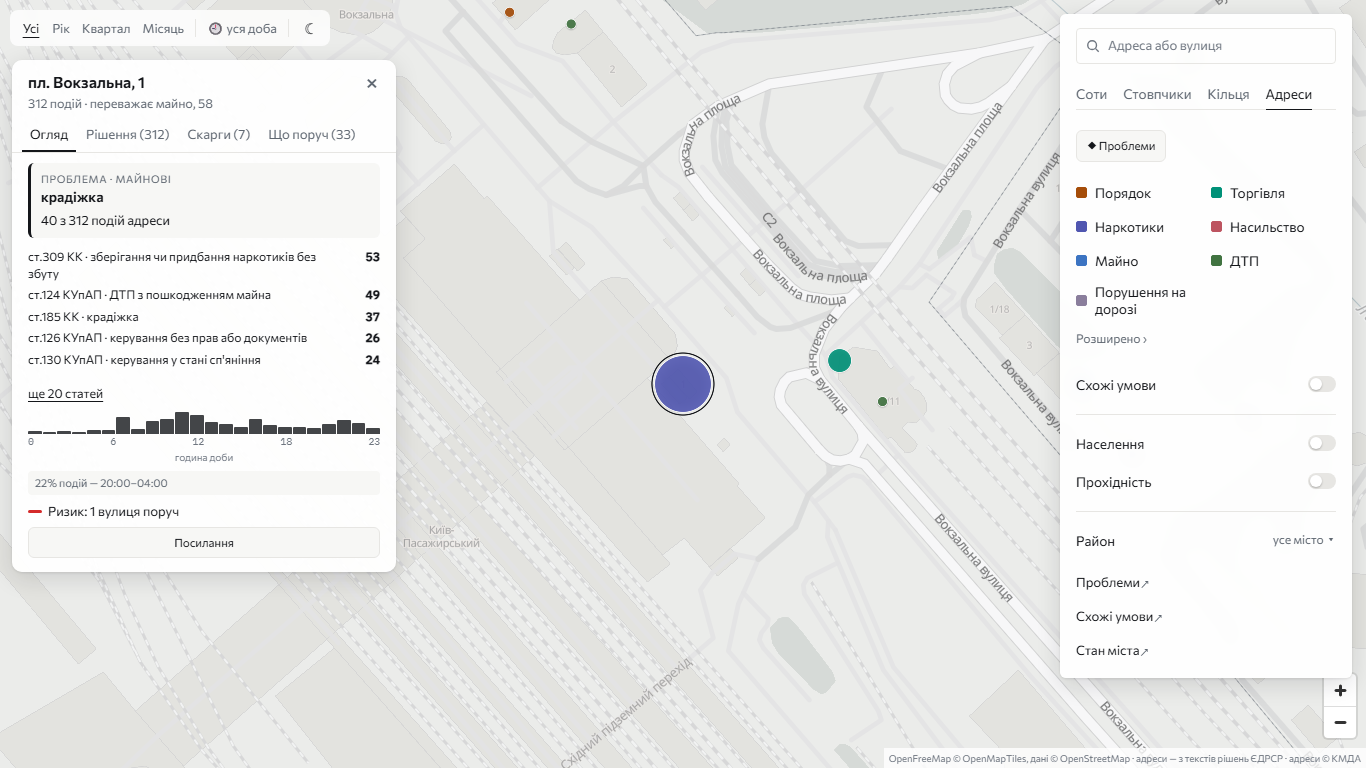
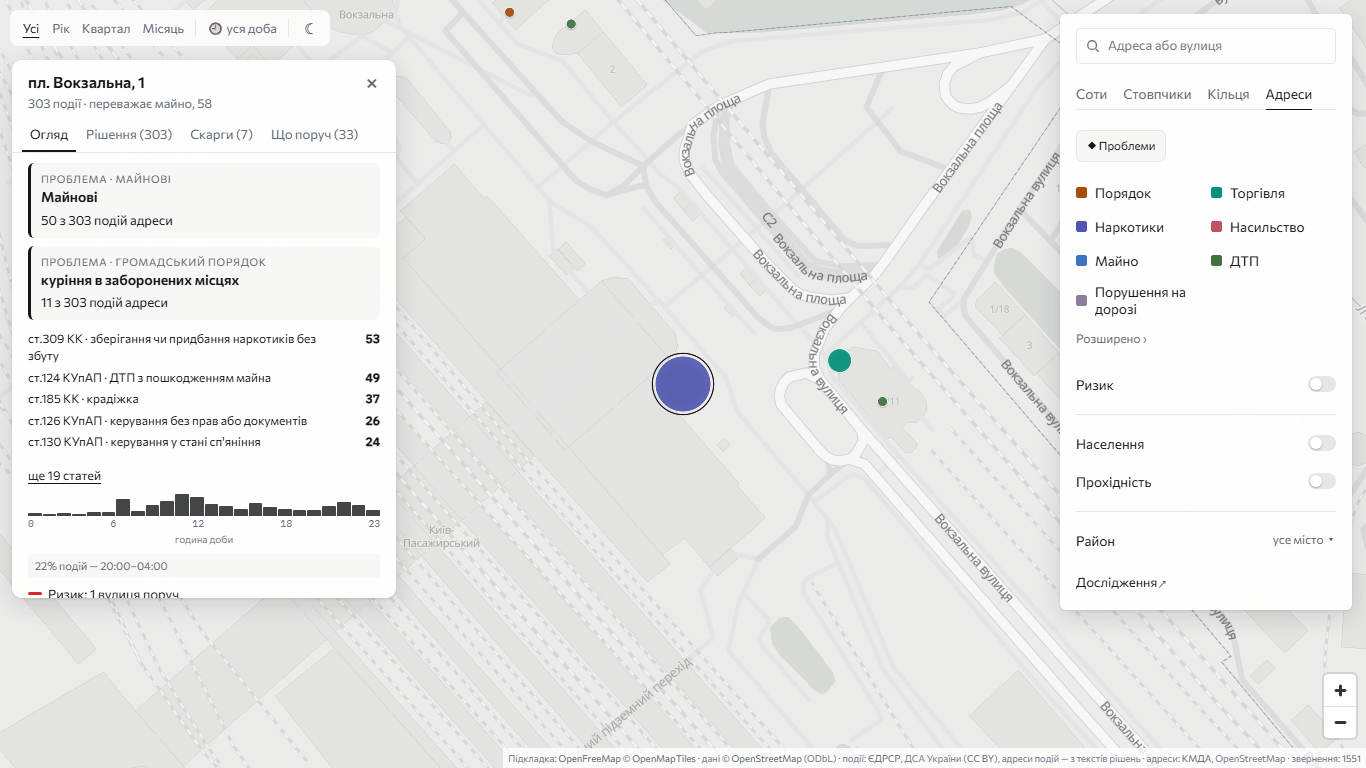
Г, перший коміт: ст.184 КУпАП поза видами, дорожні ділянки 12/5, мітки ДТП, речення про адреси
Правки центрального чату (VIDPOVID-39, 22.10, четверта). Коди 41256 і 6076 були підписані як ст.126-1 КК «домашнє насильство», а це ст.184 — стаття без місця (36.38, S-Д.2): 1 254 події знято з карти, проблем 79 -> 68 (зникли 11 «домашнє насильство» біля шкіл). Поріг 36.36 потрапив у Р4 — дорожні ділянки знову 12/5 (36.36.3, S-ПР.5), 334; сито кандидатів лишається 5/3 для всіх. У кожної ДТП в kandydaty.json.gz — поле mitky з 10 виразів чату, check_build це перевіряє. Речення «адреса — місце, де подію оформлено» суперечило S-А.1 — замінено. Специфікація до 50 КБ (36.38.2), стиснуті в В правила повернуто до повних формулювань. Знімки ПК перезнято після В.4.

diff --git a/src/problems.py b/src/problems.py
@@ -43,6 +43,10 @@ R_MISCE = 30          # м: адреси з тим самим механізмо
 # 80%); колишні 12/5 давали 67–90% і пропускали місця з одним сценарієм.
 MIN_POD = 5           # Р3: окремих подій за останні KV_VIKNO кварталів
 MIN_KV = 3            # Р3: різних кварталів з останніх 8
+# Дорожні ділянки (Р4, ДТП з майновою шкодою) лишаються на 12/5 (36.36.3):
+# змагання Е7 міряло місця й лінії, а не ДТП — на ділянках 5/3 не перевірено.
+# Кандидати для аналізу фабул беруть 5/3 для всіх, і ДТП теж.
+DOR_POD, DOR_KV = 12, 5
 # Ст.51 КУпАП (дрібне викрадення) — проактивна (36.36): число протоколів міряє
 # охорону магазину. Місця лише зі ст.51 мають наступного року кримінальних
 # крадіжок ×1,1 від звичайного, з ≥3 ст.185 — ×9,9 (Е7).
@@ -452,9 +456,10 @@ def mozhe_fiksuvaty(sim):
     return M.simtheme(sim) not in NE_FIKSUIE and sim not in NE_FIKSUIE_SIM
 
 
-def vorota(evs, S, kind_q, sim=''):
+def vorota(evs, S, kind_q, sim='', porih=(MIN_POD, MIN_KV)):
     """Ворота Р1–Р3 для набору подій однієї пари. Повертає (прапорці,
-    статус, підсумки). Порядок воріт — як у воронці."""
+    статус, підсумки). Порядок воріт — як у воронці. porih — (подій,
+    кварталів) Р3 свого класу; sito в підсумках — 5/3 для кандидатів."""
     b = [e for e in evs if e['klas'] == 'B']
     g = dict(R1=bool(b))
     if not b: return g, 'не перевірена адреса', {}
@@ -469,8 +474,8 @@ def vorota(evs, S, kind_q, sim=''):
     u8 = [e for e in u if kv(e['date']) > kind_q - KV_VIKNO]
     qs = {kv(e['date']) for e in u8}
     last = max(e['date'] for e in u)
-    g['R3_podii'] = len(u8) >= MIN_POD
-    g['R3_kvartaly'] = len(qs) >= MIN_KV
+    g['R3_podii'] = len(u8) >= porih[0]
+    g['R3_kvartaly'] = len(qs) >= porih[1]
     g['R3_svizhist'] = (dt.date.fromisoformat(S) - dt.date.fromisoformat(last)).days <= SVIZHIST_DNIV
     r3 = g['R3_podii'] and g['R3_svizhist'] and g['R3_kvartaly']
     # скупчення, де більшість — ст.51, не стає «фіксує поліція» (36.36), як НАР і ДОР
@@ -488,7 +493,8 @@ def vorota(evs, S, kind_q, sim=''):
                        otsinnykh=sum(e['otsinna'] for e in u),
                        # Шкода — поле, не сортує (Р6): частка кримінальних
                        # проступків, поки ваги шкоди не перевірені юристом
-                       shkoda_kk=round(kk / len(u), 2), evs=u)
+                       shkoda_kk=round(kk / len(u), 2), evs=u,
+                       sito=len(u8) >= MIN_POD and len(qs) >= MIN_KV)
 
 
 PROBLEMA = ('хронічна', 'фіксує поліція')       # статуси, що йдуть у перелік
@@ -532,25 +538,26 @@ def zlyty_adresy(cnt, pts=None):
 # читає лише цей файл. Межа — 20 МБ (check_build).
 KANDYDATY = os.path.join(DATA, 'kandydaty.json.gz')
 FAB_KANDYDATA = 600
-# Мітки маневру ДТП — щоб аналіз бачив сценарій («лівий поворот на Сумську»)
-MANEVR = [('лівий поворот', r'лів\w*\s+поворот|поверта\w*\s+ліворуч|поворот\w*\s+ліворуч'),
-          ('розворот', r'розворот|розверта'), ('задній хід', r'задн\w+\s+ход|заднім\s+ходом'),
-          ('перестроювання', r'перестро'), ('виїзд з прилеглої', r'прилегл\w+\s+територ'),
-          ('дистанція', r'дистанці'), ('другорядна', r'другорядн'), ('кругов', r'кругов|кільц\w+\s+рух'),
-          ('пішохід', r'пішохід|пішоход'), ('паркування', r'паркув|стоянк|припаркован')]
-MANEVR = [(m, re.compile(rx, re.I)) for m, rx in MANEVR]
+# Мітки ДТП — щоб аналіз бачив сценарій («лівий поворот на Сумську»).
+# Вирази — дослівно з VIDPOVID-39 від 22.10 (36.37): аналіз звіряє мітки з ними.
+MITKY = [('лівий поворот', r'поворот\w* ліворуч|лівий поворот'), ('розворот', r'розворот'),
+         ('задній хід', r'задн\w+ ход'), ('перестроювання', r'перестро|перелаштув|зміні смуги|зміні напрямку'),
+         ('виїзд з прилеглої', r'прилегл|з двору|виїжджа'), ('дистанція', r'дистанц|попереду'),
+         ('другорядна', r'другорядн|не надав\w* (перевагу|дорогу)'), ('круговий рух', r'кругов'),
+         ('пішохід', r'пішохід|пішоход'), ('паркування', r'паркув|стоянц|парковц|припаркован')]
+MITKY = [(m, re.compile(rx, re.I)) for m, rx in MITKY]
 
 
 def kandydaty(zapysy, ev, log=print):
     """data/kandydaty.json.gz: кожна пара сита (місце × механізм, разом з
-    ДОР_ДТП), що проходить Р3 (≥MIN_POD подій у ≥MIN_KV кварталах), — з
-    подіями й показом фабул (36.19: без заглушок, до FAB_KANDYDATA знаків)."""
+    ДОР_ДТП), що проходить сито 5/3 (≥MIN_POD подій у ≥MIN_KV кварталах,
+    і ДТП теж — 36.36.3), — з подіями й показом фабул (36.19: без заглушок,
+    до FAB_KANDYDATA знаків)."""
     import step1c_teksty as T1
     po_doc = {e['doc']: e for e in ev}
     out = []
     for r in zapysy:
-        g = r.get('vorota') or {}
-        if r.get('riven') not in ('точка', 'дорожні ділянки') or not (g.get('R3_podii') and g.get('R3_kvartaly')): continue
+        if r.get('riven') not in ('точка', 'дорожні ділянки') or not r.get('sito'): continue
         pod = []
         for d in r.get('docs', []):
             e = po_doc.get(d)
@@ -558,7 +565,7 @@ def kandydaty(zapysy, ev, log=print):
             f = T1.pokaz(e['fab0'], T1.kodeks(e['cat']))[:FAB_KANDYDATA]
             x = dict(doc=d, date=e['date'], time=e['time'], cat=e['cat'], adr=e['adr'], fab=f)
             if e['sim'] == 'ДОР_ДТП' or M.simtheme(e['sim']) == 'ДТП':
-                x['manevr'] = [m for m, rx in MANEVR if rx.search(e['fab0'])]
+                x['mitky'] = [m for m, rx in MITKY if rx.search(e['fab0'])]
             pod.append(x)
         out.append(dict(adresy=r.get('adresy', []), lat=r['p'][0], lon=r['p'][1], sim=r['sim'], vyd=r['vyd'],
                         status=r.get('status'), podii=pod))
@@ -977,14 +984,15 @@ def run(V=None, log=print, FACT=None):
     funnel = {'точка': collections.Counter(), 'лінія': collections.Counter(),
               'дорожні ділянки': collections.Counter()}
     zapysy, formue, is_problem_ev = [], [], set()
-    GATES = (('R1', 'Р1 клас B'), ('R2', 'Р2 заявні ≥50%'), ('R3_podii', f'Р3 ≥{MIN_POD} подій за 2 роки'),
-             ('R3_svizhist', 'Р3 остання ≤12 міс.'), ('R3_kvartaly', f'Р3 ≥{MIN_KV} кварталів з 8'))
+    GATES = lambda n, k: (('R1', 'Р1 клас B'), ('R2', 'Р2 заявні ≥50%'), ('R3_podii', f'Р3 ≥{n} подій за 2 роки'),
+                          ('R3_svizhist', 'Р3 остання ≤12 міс.'), ('R3_kvartaly', f'Р3 ≥{k} кварталів з 8'))
     POLICE = 'пройшли Р3 як проактивні: «фіксує поліція»'
 
     def zbir(sim, evs, riven, pts, rep):
         """запис місця × механізму з підсумками воріт — без воронки"""
         th = M.simtheme(sim)
-        g, st, s = vorota(evs, S, kind_q, sim)
+        g, st, s = vorota(evs, S, kind_q, sim,
+                          (DOR_POD, DOR_KV) if riven == 'дорожні ділянки' else (MIN_POD, MIN_KV))
         u = s.pop('evs', [])
         ap = {}
         for e in u: ap.setdefault(e['adr'], tuple(e['p']))
@@ -1023,7 +1031,7 @@ def run(V=None, log=print, FACT=None):
         rec, u = zbir(sim, evs, track, pts, rep)
         g, st = rec['vorota'], rec['status']
         f = funnel[track]; f['пар на вході'] += 1
-        for gk, lab in GATES:
+        for gk, lab in GATES(*((DOR_POD, DOR_KV) if dor else (MIN_POD, MIN_KV))):
             if gk not in g: break
             if not g[gk]:
                 f['відпало: ' + lab] += 1; break

diff --git a/src/step6_zvity.py b/src/step6_zvity.py
@@ -119,8 +119,7 @@ def page(fn, title, lead, body, script=''):
             f'<header><div class="nav"><a href="index.html">← карта</a>{nav}</div>'
             f'<h1>{esc(title)}</h1><div class="sub">{lead}</div></header>{body}'
             f'<p class="muted" style="margin-top:40px">Складено {dt.date.today().strftime("%d.%m.%Y")} з тих самих даних, '
-            'що й карта. Адреси — з текстів рішень ЄДРСР: це місце, де подію оформлено, і воно не '
-            'завжди збігається з місцем, де все сталося.</p>'
+            'що й карта. Адреси подій — з текстів рішень; текст суду не завжди точний.</p>'
             # атрибуція внизу кожної сторінки — той самий рядок, що на карті (S-З.7)
             f'<p class="muted" style="font-size:12px">{ATR.HTML}</p></div>'
             f'{script}</body></html>')
@@ -322,7 +321,7 @@ def zaklady(D, rng):
     b = ['<h2 id="zaklady">Заклади, біля яких подій найбільше</h2><p>Для кожного типу закладів — скільки подій '
          '(без дорожнього руху) в 50 м від кожного і яку частку всіх таких подій дають верхні 10% закладів. '
          'Поруч — скільки дали б верхні 10%, якби ті самі події розкидати між закладами навмання. Це '
-         'близькість, а не пояснення: адреса в рішенні — місце, де подію оформлено.</p>'
+         'близькість, а не пояснення. Адреси подій — з текстів рішень; текст суду не завжди точний.</p>'
          '<div class="tw"><table><tr><th>Тип</th><th class="n">Закладів з подіями</th><th class="n">Верхні 10% дають</th>'
          '<th class="n">Навмання</th><th>Найбільше подій поруч</th></tr>']
     for k, c in Z.items():
@@ -782,7 +781,8 @@ def metodyka(D):
              'ст. 51 — ні.</li>'
              f'<li><b>Р3.</b> ≥ {PRB_.MIN_POD} окремих подій за останні 2 роки (та сама дата на тій самій адресі — одна), у ≥ {PRB_.MIN_KV} '
              'різних кварталах з 8, остання — не старша за 12 місяців. Дати події немає — дата рішення мінус 50 днів.</li>'
-             '<li><b>Р4.</b> ДТП без потерпілих — окремим класом «дорожні ділянки», не в переліку.</li>'
+             f'<li><b>Р4.</b> ДТП без потерпілих — окремим класом «дорожні ділянки», не в переліку; поріг Р3 для них — '
+             f'≥ {PRB_.DOR_POD} подій у ≥ {PRB_.DOR_KV} кварталах.</li>'
              '<li><b>Р5.</b> Тип за Еком і Кларком — з таблиці механізмів (NAPRYAM-PROBLEMY, додаток Б). Тип місця, '
              'хто ним керує, посібник POP Center і техніки — лише якщо об\'єкт цього типу за OSM стоїть у 50 м від '
              'більшості подій; інакше «невизначено» і без посібника. На карті їх немає — лише тут.</li>'
@@ -858,7 +858,7 @@ def metodyka(D):
                  '<tr>' + ''.join(f'<td>{5 * gi + r + 1}. {esc(TEKHNIKY[gi][1][r])}</td>' for gi in range(5)) + '</tr>'
                  for r in range(5)) + '</table></div>')
     b.append('<h2 id="mezha">Межа</h2><p>Модель і звіти міряють, що поруч і як часто, а не через що сталася подія. '
-             'Гіпотезу, чому саме тут, висуває людина на місці. Адреса — місце, де подію оформлено.</p>')
+             'Гіпотезу, чому саме тут, висуває людина на місці. Адреси подій — з текстів рішень; текст суду не завжди точний.</p>')
     return b
 
 

diff --git a/src/check_build.py b/src/check_build.py
@@ -73,7 +73,7 @@ TESTY = {
     'chyslo_problem': '4е. Число проблем: карта = «Проблеми» = problems_report',
     'uzhodzhenist': '7. Узгодженість у браузері: підказка = картка = сума видів',
     'telefon': '7. Телефон 375×812: точка й +/− над шторкою, одна висота, 14 px, 44 px',
-    'kandydaty': '4ж. Кандидати для аналізу фабул: файл є, непорожній, ≤20 МБ',
+    'kandydaty': '4ж. Кандидати для аналізу фабул: файл є, непорожній, ≤20 МБ, ДТП з полем mitky',
     'atrybutsiia': '4з. Атрибуція: п\'ять джерел і умови OSM на карті, у звітах і файлах адрес',
     'poshuk_143': '8. Пошук: 143 запити Е12б — першим ≥131',
     'poshuk_opysky': '8. Пошук: описки — у перших п\'яти ≥12 з 13',
@@ -153,10 +153,11 @@ def spec_testy():
         return [f'немає {os.path.basename(SPEC)}'], {}
     import collections
     st = collections.Counter(); bad = []
-    # ≤ 40 КБ (36.31.1): файл читається цілком на початку кожної роботи
+    # ≤ 50 КБ (36.31.1, 36.38.2): файл читається цілком на початку кожної
+    # роботи; 40 змушувало стискати правила до неясності
     kb = os.path.getsize(SPEC) / 1024
     st['КБ'] = round(kb, 1)
-    if kb > 40: bad.append(f'{os.path.basename(SPEC)} — {kb:.1f} КБ, межа 40')
+    if kb > 50: bad.append(f'{os.path.basename(SPEC)} — {kb:.1f} КБ, межа 50')
     for ln in open(SPEC, encoding='utf-8'):
         m = re.match(r'^\| (S-[^\s|]+) \|(.*)\|\s*$', ln)
         if not m: continue
@@ -481,15 +482,19 @@ def main(save=False):
         if na_karti != ch or (os.path.exists(pp_) and not v_zvity):
             print('   ПОМИЛКА число проблем розходиться між картою, «Проблемами» й звітом')
             return 1
-    print('4ж. Кандидати для аналізу фабул (36.37): data/kandydaty.json.gz є, непорожній, ≤20 МБ')
+    print('4ж. Кандидати для аналізу фабул (36.37): data/kandydaty.json.gz є, непорожній, ≤20 МБ, ДТП з mitky')
     kp_ = os.path.join(DATA, 'kandydaty.json.gz')
     if not os.path.exists(kp_):
         print('   ПОМИЛКА data/kandydaty.json.gz немає — аналізу в хмарі нічого читати'); return 1
     mb_ = os.path.getsize(kp_) / 1048576
-    n_ = len(json.load(gzip.open(kp_, 'rt', encoding='utf-8')))
-    print(f'   {n_:,} пар, {mb_:.1f} МБ')
-    if not n_ or mb_ > 20:
-        print('   ПОМИЛКА файл кандидатів порожній чи понад 20 МБ'); return 1
+    kd_ = json.load(gzip.open(kp_, 'rt', encoding='utf-8'))
+    n_ = len(kd_)
+    # аналіз фабул групує ДТП за полем mitky (S-ПР.15) — без нього сценарію не видно
+    dtp_ = [x for k in kd_ if k['sim'] == 'ДОР_ДТП' for x in k['podii']]
+    bez_m = sum('mitky' not in x for x in dtp_)
+    print(f'   {n_:,} пар, {mb_:.1f} МБ; ДТП {len(dtp_):,}, з мітками {sum(bool(x.get("mitky")) for x in dtp_):,}')
+    if not n_ or mb_ > 20 or bez_m or not dtp_:
+        print(f'   ПОМИЛКА файл кандидатів порожній, понад 20 МБ чи ДТП без поля mitky ({bez_m})'); return 1
     print('4з. Атрибуція (S-К.20, S-З.7, S-Б.7): п\'ять джерел і умови OSM')
     import atrybutsiia as ATR_
     bez = []

diff --git a/SPECYFIKATSIYA.md b/SPECYFIKATSIYA.md
@@ -14,7 +14,7 @@
 | № | Правило | Джерело | Перевірка |
 |---|---|---|---|
 | S-Д.1 | Події — з ЄДРСР (дамп data.gov.ua), суди Києва; на карті — з датою події від 01.01.2023 (`MIN_EVENT_DATE`). 2023 неповний (лише через рішення 2024+): позначки немає, у «Стані міста» — рядок «Що треба знати». | 22, 36.32.1 | очима: рядок «дата до 2023» у воронці Е25 |
-| S-Д.2 | Береться кожна стаття, де подія стається в конкретному місці; статті без місця (військова служба, держзрада, колабораціонізм, корупція, службові, митниця, податки, документи) — ні. | 34.2, 35.8 | очима: перелік статей з числами у звіті |
+| S-Д.2 | Береться кожна стаття, де подія стається в конкретному місці; статті без місця (військова служба, держзрада, колабораціонізм, корупція, службові, митниця, податки, документи) — ні. Ст.184 КУпАП (коди 41256, 6076; невиконання батьками обов'язків) — стаття без місця: «поза видами», не на карті, не в розрахунках, не «домашнє насильство». | 34.2, 35.8, 36.38 | очима: перелік статей з числами у звіті |
 | S-Д.3 | Сім видів: Громадський порядок, Алкоголь і торгівля, Наркотики, Насильство, Майнові, ДТП, Порушення на дорозі. Домашнє насильство — у Насильстві. | 34.3, 35.8 | очима: легенда й `labels.ORDER` |
 | S-Д.4 | Механізми — заявні з ≥250 подіями у вікні навчання: хуліганство, залишення місця ДТП, крадіжка, ДТП з майном «на дорозі» і «на парковці чи у дворі». | 32 | очима: `engine_report.json` |
 | S-Д.5 | Адресна база — OSM (знімок з Geofabrik у гілці `osm`) і геокодер КМДА; джерело кожної точки — у даних (`geo.source`). | 16, Порядок, 35.9 | очима: `geo.source` у базі |
@@ -30,7 +30,7 @@
 | S-П.1 | Подія — епізод, установлений судом: вирок або постанова по суті; форма — з дампу ЄДРСР. Ухвали й справи, закриті за строками, — не події. | 19, 24 | очима: воронка Е25, крок «форма» |
 | S-П.2 | Одна справа — одна подія на вид (злиття за номером справи). | 19 | очима: воронка Е25, «другий документ справи» |
 | S-П.3 | Скасоване рішення прибирає подію з усіх підрахунків, коли скасування знайдено. | 24 | очима |
-| S-П.4 | Процесуальна постанова (немає часу й опису події; ознака ухвали — описка, розстрочка, об'єднання справ, речові докази — до «ПОСТАНОВИВ», не в згадці «Постановою …»; дата не важить) — не подія: ні на карту, ні в знаменник. | 36.19.7, 36.33.2 | очима: 20 + 20 з датою (ZVIT-39) |
+| S-П.4 | Процесуальна постанова (немає часу й опису події, є ознака ухвали — описка, розстрочка штрафу, об'єднання справ, речові докази — до «ПОСТАНОВИВ» і не в реченні-згадці «Постановою …»; дата не важить) — не подія: ні на карту, ні в знаменник. Позначка проходу v4d «процесуальна». | 36.19.7, 36.33.2 | очима: 20 + 20 з датою (ZVIT-39) |
 | S-П.5 | Чи подія йде в розрахунки — за реченням, з якого взято адресу; карта, проблеми й ризик рахують один набір (36.14); поза ним — лише адреси ролі («проживає», «доставлений», «складено протокол»). ⏳ | 36.14.1 | очима: воронка Е25, «набір 36.14» |
 | S-П.6 | Дата події — з тексту рішення (описки в даті нормалізуються); немає — дата рішення мінус 50 днів, у картці — дата рішення з позначкою «рішення». | 17, 21, METODYKA (медіана затримки 46 днів, «Стан міста»), VIDPOVID-38 п. 4 | ⏳test:bez_fabuly (подій з адресою без фабули ≤0,5%) |
 | S-П.7 | Фабула (правило v4) — від речення з датою, часом і місцем події; укази про воєнний стан і речення про судимість відкидаються; межа речення не стоїть на скороченнях («д.н.з.», «грн.»). | 21, 35.7 | очима: 20 фабул |
@@ -46,8 +46,8 @@
 | S-А.2 | Точне місце — будинок з адресної бази, перехрестя двох названих вулиць (обидві в довіднику, перетин у 30 м) або назване компактне місце (метро, ТЦ, ринок, вокзал, сквер до ~300 м; у картці — назва); великі парки й мости — ні. ⏳ (названі місця) | 33.2.3, 36.12.2 | очима: пл. Вокзальна, 1 |
 | S-А.3 | Подія без номера будинку на карту не йде (крім S-А.2), але лишається в розрахунках (ризик коротких вулиць, статистика). | 36.2 | ⏳test:bez_nomera (0 точок без номера) |
 | S-А.4 | Джерело точки: OSM першим, КМДА — запасним. Інтерполяція між номерами й «база» («20Б» біля 20) — не точка: точка КМДА тієї самої адреси, немає — без точки. | 36.18.3, 24 | test:dzherelo_tochky |
-| S-А.5 | Геокодер — один ключ `adr_kliuch`: тип вулиці лише цілим словом; перейменування 1551 (пару «нова (стара)» відкидаємо, лише коли стара чинна в OSM); відмінок у називний — за довідником; тип — і зі слова після назви, звіряється й при одному кандидаті; перехрестя — так само. | 36.18.2, 36.30.6, 36.33.4 | очима: точок до/після за правилами (ZVIT-39, А) |
-| S-А.6 | Неповна назва («Заболотного») — лише якщо вулиця Києва одна (ініціал — початок слова назви); слово з опискою не важить, якщо решта однозначна й назва не з двох вулиць; інакше без точки. | 36.18.6 | очима: 50 зіставлень, помилок ≤2 |
+| S-А.5 | Геокодер — один ключ `adr_kliuch` в одному модулі: тип вулиці лише цілим словом, перейменування 1551 (пара «нова (стара)» відкидається, лише коли стара назва чинна в OSM), відмінок у називний — лише за довідником; тип — і зі слова після назви («вулиця Одеська площа»), звіряється й при одному кандидаті; перехрестя — так само для обох вулиць. | 36.18.2, 36.30.6, 36.33.4 | очима: точок до/після за правилами (ZVIT-39, А) |
+| S-А.6 | Неповна назва вулиці («Заболотного») зіставляється, лише якщо збіг з однією вулицею Києва однозначний (однолітерний ініціал — початок слова назви); слово з опискою не зважається, якщо решта однозначна й назва не з двох вулиць; неоднозначна — без точки. | 36.18.6 | очима: 50 зіставлень, помилок ≤2 |
 | S-А.7 | Однойменні адреси далі 500 м: тип з тексту (пл., пров., бульв.) → район суду → «вул.»; без підказки — точки немає. Та сама адреса на одній зв'язній вулиці — центральна з точок. | 35.7 | test:sud_raion (незбіг ≤8%) |
 | S-А.8 | Помилки розбору: номер перед «км» — не будинок; адреса після «м. <не Київ>» — не точка; однойменні площа, бульвар і вулиця розрізняються. | 36.14.3 | очима |
 | S-А.9 | Ст. 309 — будинок придбання (знахідки), без нього — будинок затримання, без обох — точки немає. Наркосправи: місце, де придбав, забрав чи затримали, а не звідки замовляв (v3). | 36.14.2, 21 | очима |
@@ -67,16 +67,16 @@
 | S-ПР.2 | Р1: лише події набору S-П.5. | 20, 36.14 | — |
 | S-ПР.3 | Р2: ≥50% подій заявні (про них повідомили люди); ст.51 КУпАП — проактивна. | 20, 36.36 | — |
 | S-ПР.4 | Р3: ≥5 подій за 8 кварталів у ≥3 різних; остання — не старша за 12 місяців. | 36.36 | очима: ZVIT-39, В |
-| S-ПР.5 | Р4: ДТП лише з пошкодженням майна — окремий клас «дорожні ділянки». | 20 | — |
-| S-ПР.6 | Р5: тип (Ек і Кларк), хто керує, посібник POP — лише з об'єктом типу в 50 м від більшості подій, інакше «невизначено»; лише у звіті «Проблеми». | 26, 33.3 | очима: 3 сторінки |
+| S-ПР.5 | Р4: ДТП лише з пошкодженням майна — окремий клас «дорожні ділянки»; поріг Р3 для них — ≥12 подій у ≥5 кварталах з 8 (5/3 — лише місця й лінії; сито кандидатів — 5/3 для всіх). | 20, 36.36.3 | очима: воронка «дорожні ділянки» |
+| S-ПР.6 | Р5: тип за Еком і Кларком, хто керує місцем, посібник POP — лише якщо об'єкт цього типу в 50 м від більшості подій, інакше «невизначено»; де посібника немає — «немає». Усе це — лише у звіті «Проблеми». | 26, 33.3 | очима: 3 сторінки |
 | S-ПР.7 | Р6: порядок у переліку — події за останні 4 квартали. Р7: квот за видами й районами немає. | 20 | — |
 | S-ПР.8 | Р8: місце густіше, ніж у 95% випадкових розкладів тих самих подій (200 перестановок). | 20, 32 | — |
 | S-ПР.9 | Проактивне скупчення з тим самим порогом — «проблема, яку фіксує поліція», з голосом мешканців поруч; наркотики, сп'яніння за кермом і скупчення ст.51 — ні. | 32, 36.36 | — |
-| S-ПР.10 | Кілька механізмів виду на точці — одна картка з розбивкою; точки механізму на вулиці ближче 250 м (ланцюжком до 500 м) — «ділянка». ⏳ | 32 | очима: Спортивна, 1А; Хрещатик |
-| S-ПР.11 | Формується: 1551 — 3 міс. проти 9, ≥5 скарг, p < 0,01 (порядок, торгівля, безпека руху); ЄДРСР — 2 кв. проти 6, ≥3 події, p < 0,01; лише скарги — «формується (лише мешканці)». | 31, 33.2.5 | — |
+| S-ПР.10 | Кілька механізмів одного виду на одній точці — одна картка з розбивкою; точки одного механізму на одній вулиці ближче 250 м (ланцюжком до 500 м) — одна проблема рівня «ділянка». ⏳ | 32 | очима: Спортивна, 1А; Хрещатик |
+| S-ПР.11 | Формується: 1551 — останні 3 місяці проти попередніх 9, ≥5 скарг, p < 0,01 (порядок, торгівля, безпека руху); ЄДРСР — останні 2 квартали проти попередніх 6, ≥3 події, p < 0,01. Скарги без судових подій — «формується (лише мешканці)», не проблема. | 31, 33.2.5 | — |
 | S-ПР.12 | Голос мешканців: скарги виду за 12 місяців у 30 м проти рівня району — «підтверджують» (p < 0,05) · «мовчать»; рядок лише там, де 1551 вимірює вид. | 31, 36.23.5 | — |
 | S-ПР.13 | Гістерезис: проблема-точка зникає, лише коли дві збірки поспіль має менше 80% порогу подій; на тих самих даних лічильник не росте (тимчасово, до П7 Е7). | 36.24.1 | очима: журнал «гістерезис» |
-| S-ПР.15 | Кандидати для аналізу — `data/kandydaty.json.gz` щотижня: пари сита (з ДОР_ДТП) з подіями, показом фабул до 600 знаків і мітками маневру ДТП; ≤20 МБ. | 36.37 | test:kandydaty |
+| S-ПР.15 | Кандидати для аналізу — `data/kandydaty.json.gz` щотижня: пари сита 5/3 (з ДОР_ДТП) з подіями, показом фабул до 600 знаків і полем `mitky` в кожної ДТП (10 виразів із VIDPOVID-39, 22.10); ≤20 МБ. | 36.37 | test:kandydaty |
 | S-ПР.14 | Число проблем — одне джерело (`problems_report.json.gz`): місця, лінії й дорожні ділянки рахуються окремо всюди — карта, «Проблеми», зміст, підказки. | 36.28.2 | test:chyslo_problem |
 
 ## Р. Ризик
@@ -86,7 +86,7 @@
 | S-Р.1 | Ризик — місце, де події ймовірні далі; на карту йде лише те, що вгадує краще за саму історію з урахуванням похибки (на подіях наступних періодів). | 33.2.1, 36.16 | очима: `E8-ryzyky.md` |
 | S-Р.2 | Лінії (відрізки між перехрестями) — історія зі згасанням: події 24 місяців, піврозпад 12 місяців, для всіх видів і механізмів. ⏳ | 36.17.1 | — |
 | S-Р.3 | Точки — та сама історія; хуліганство — лише середовище (R6), бо лише там краще за історію понад похибку. АЛК, наркотики, залишення місця — повторити перевірку через рік. ⏳ | 36.21 | — |
-| S-Р.4 | Точки — перехрестя (ступінь ≥3) і атрактори (метро, вокзал, ринок, ТЦ, супермаркет, алкоголь на винос, бар, школа, парк), ближче 25 м — одна; адреси з подіями — ні. ДТП у 30 м — перехрестю, решта — точці в 50 м, інакше — відрізку своєї вулиці в 120 м. | 35.4, Е8 | — |
+| S-Р.4 | Точки — перехрестя (ступінь ≥3) і атрактори (метро, вокзал, ринок, ТЦ, супермаркет, алкоголь на винос, бар, школа, парк), ближче 25 м — одна; адреси з подіями — ні. ДТП у 30 м — перехрестю, решта — точці в 50 м з подіями до кінця навчального вікна, інакше — відрізку своєї вулиці в 120 м. | 35.4, Е8 | — |
 | S-Р.5 | Подія з самою вулицею без номера — у ризик коротких вулиць (≤2 відрізки, ≤400 м, назва однозначна), порівну між відрізками. | 35.1 | — |
 | S-Р.6 | У моделі середовища (хуліганство) прохідність і населення — завжди, без штрафу й відбору; чинники — відбір стійкості (≥70% з 100 прогонів), негативна біноміальна з довжиною. | 34.1, 33.3 | — |
 | S-Р.7 | Шар іде на карту, якщо PAI на довжину ≥ 3 (верхні 10% довжини; точки — точка = 50 м). | 33.2.1, 35.4 | test:pai_ryzyku |
@@ -123,7 +123,7 @@
 | S-К.18 | Вікно закривається Esc, кліком по порожній карті чи ×; видно цілком, карта м'яко зсувається під нього. | 23.9 | очима |
 | S-К.19 | Числівник узгоджується з іменником («44 події», «21 справа»); дати — «21 серпня 2026». | 21, 25.9 | очима |
 | S-К.20 | Атрибуція — один рядок у куті, усі назви посиланнями: «Підкладка: OpenFreeMap © OpenMapTiles · дані © OpenStreetMap (ODbL) · події: ЄДРСР, ДСА України (CC BY), адреси подій — з текстів рішень · адреси: КМДА, OpenStreetMap · звернення: 1551»; на телефоні — «ⓘ». Рядка не прибирати: текст суду не завжди точний. | 36.26.1, 18, VIDPOVID-39 | test:atrybutsiia |
-| S-К.21 | Телефон: точка над шторкою; одна висота шторки (≈пів екрана) для соти й адреси; текст 14 px (мін. 11); кнопки й рядки 44 px; +/− і «ⓘ» над шторкою; «Показати адреси» без фільтрів; дотик — найближче в 20 px. | 36.27 | test:telefon (Playwright 375×812) |
+| S-К.21 | Телефон: обрана точка над шторкою; одна висота шторки (≈пів екрана) для соти й адреси, без вузької прокрутки; текст 14 px, мінімум 11; кнопки й рядки видів 44 px; +/− і «ⓘ» над шторкою; «Показати адреси» — без панелі фільтрів; дотик — найближче в 20 px. | 36.27 | test:telefon (Playwright 375×812) |
 | S-К.22 | Ціль кліку на ПК ≥ 32 px; одна відкрита панель за раз; контраст тексту ≥ 4,5:1; є стан завантаження й «нічого не знайдено». | 25.А | очима |
 | S-К.23 | Старт — увесь Київ з урахуванням картки; посилання на конкретну проблему відкриває її одразу. | 25.3, 30.1, 35.9 | очима |
 | S-К.24 | Картка проблеми — рядок сценарію («лівий поворот на Сумську — 12 з 16»), стан, розбори з посиланнями; перемикач «Розбори» поруч із «◆ Проблеми». ⏳ (після макета) | 36.37.5 | очима: макет |
@@ -142,7 +142,7 @@
 
 | № | Правило | Джерело | Перевірка |
 |---|---|---|---|
-| S-З.1 | Один вхід: `doslidzhennya.html` — картки розділів (Стан міста · Проблеми · Ризик · Вирішені проблеми · Коли · Розбори · Методика): питання, 1–2 числа, посилання (ненаписаний — без); навігація вгорі. | 36.5, 36.28.1 | очима: зміст |
+| S-З.1 | Один вхід: `doslidzhennya.html` — зміст з картками розділів (Стан міста · Проблеми · Ризик · Вирішені проблеми · Коли · Розбори · Методика): питання, 1–2 числа збірки, посилання; ненаписаний — без посилання; навігація вгорі всіх сторінок. | 36.5, 36.28.1 | очима: зміст |
 | S-З.2 | «Проблеми» — таблиця-зміст (№, адреса, механізм, подій, район, якорі) і сторінка на кожну проблему, що друкується на A4. | 25.Б, 36.28.3 | очима |
 | S-З.3 | «Ризик» — `ryzyk.html` (переадресація з `skhozhi-umovy.html`); текст — за S-Р.2–3. | 36.28.4 | очима |
 | S-З.4 | «Стан міста»: неповні місяці на графіку — за затримкою виду (90% опублікованого для суміші ввімкнених видів), без числа «два». | 36.28.5 | очима |
@@ -160,7 +160,7 @@
 | S-Б.1 | На карті — усі події з точною адресою, зокрема домашнє насильство, статеві злочини й справи щодо дітей; знеособлення — лише судове. Питання закрито. | 36.1, 35.8, 36.25 | — |
 | S-Б.2 | Публічна карта лишає рівень адреси. | 28 | — |
 | S-Б.3 | Модель міряє, що поруч, а не через що: слова «причина» в інтерфейсі немає. | 33.2.1, CLAUDE.md | очима |
-| S-Б.4 | Повні тексти рішень з раннера нікуди не йдуть (ні `dani-edrsr`, ні публічний артефакт); прохід лишає лише свої поля. | 36.7, 36.11, 36.25.1–2 | очима: журнал «Проходу по текстах» |
+| S-Б.4 | Повні тексти рішень з раннера нікуди не йдуть — ні в `dani-edrsr`, ні в публічний артефакт; прохід лишає лише свої поля. Комерційний продукт до репозиторію не належить. | 36.7, 36.11, 36.25.1–2 | очима: журнал «Проходу по текстах» |
 | S-Б.5 | Ключі й токени — ніколи у файли, коміти чи звіти; у HTML і файлах сайту немає рядків, схожих на токени (`ghp_`, `github_pat_`, `sk-`, `AKIA`), і заглушок `ОСОБА_` / `ІНФОРМАЦІЯ_`. ⏳ (тест) | 36.25.5 | ⏳test:tokeny |
 | S-Б.6 | Ключ CARTO прибирається разом із запасною картою. ⏳ | 36.25.3, 36.28.6 | очима |
 | S-Б.7 | `LICENSE-DATA.md`: адреси й вулиці, похідні від OSM, — ODbL 1.0; події — ЄДРСР (ДСА України), CC BY; файли переліку адрес — з тим самим рядком у заголовку. | 36.26.2 | test:atrybutsiia |
@@ -173,11 +173,11 @@
 | S-Н.1 | «Оновлення карти» — щопонеділка 03:00 UTC або кнопкою; пуш його не запускає; `check_build` у workflow — зламана збірка не публікується й не зберігається. | arkhiv/KARTA-1.0 п. 16, CLAUDE.md | test:kompiliatsiia, test:rozmitka, test:js |
 | S-Н.2 | «Прохід по текстах» — одразу після «Оновлення карти» (`workflow_run`), нічний запуск — запасний; бюджет 30 000 документів. | 36.30.7, 21 | очима: журнал |
 | S-Н.3 | «Знімок OSM» — 28-го з Geofabrik, за ним «Прохідність»; «Аналіз 1551» — щонеділі. Якщо джерело падає вдруге з тієї самої причини — шукати інше, не повторювати. | 35.9, arkhiv/KARTA-1.0 п. 25, CLAUDE.md | очима |
-| S-Н.4 | Свіжість (жовта збірка з причиною): прохід по текстах не комітив >2 доби; найновіше рішення дампу старше 21 дня; останній повний місяць <70% торішнього з поправкою на затримку. ⏳ | 36.20.3 | ⏳test:svizhist |
+| S-Н.4 | Запобіжник свіжості (жовта збірка з причиною): немає коміту «прохід по текстах» понад 2 доби; найновіше рішення в дампі старше 21 дня; подій останнього повного місяця <70% від того ж місяця торік з поправкою на затримку. ⏳ | 36.20.3 | ⏳test:svizhist |
 | S-Н.5 | Дані сайту — окремими файлами з хешем у назві; «Прохідність», «Що поруч», аналіз — на вимогу; лінії — polyline; перше завантаження ≤3 МБ розпаковано й ≤1 МБ мережею (понад 3 МБ — жовта, понад 5 МБ — червона). ⏳ | 36.22 | ⏳test:vaga |
 | S-Н.6 | `data/teksty` — одна остання версія документа (історію git не переписувати; кількість і `load_done` до/після однакові); `problems_report.json.gz`; `fabuly.csv.gz` — прибрати після S-П.8 ⏳. | 36.30.1–3 | очима: хеш до/після |
 | S-Н.7 | У корені — лише чинні документи (CILI, CLAUDE, AGENTS, README, SPECYFIKATSIYA, RISHENNYA, METODYKA, NAUKA, PIDKHID, PLAN-ZAHALNYI, LICENSE-DATA, поточні завдання зі звітами); завершене — в `arkhiv/`, мертві скрипти — в `arkhiv/kod/`, звіти збірки — у `doslidzhennya/`. | 36.30.4–5, 36.8 | очима |
 | S-Н.8 | Методику обирають дані: усі підходи на наших даних за кілька періодів одним мірилом, на карту — переможець; Андрієві — питання лише про вигляд (макет «було/стане») і про дії, які може зробити тільки він. | 36.13, 18 | — |
 | S-Н.9 | Зміна вигляду — спершу макет «було/стане» і «так» Андрія, далі одразу реалізація; зміни карти перевіряються очима на названих адресах. | 18, 25, CLAUDE.md | очима |
 | S-Н.10 | Нове рішення — в одному коміті: запис у RISHENNYA (лише дописується; номер «36.N → S-x.y» дає центральний чат), правило тут, тест або «очима»; документи не суперечать одне одному. | 36.9, 36.31.2–3 | test:specyfikatsiia |
-| S-Н.11 | Цей файл ≤40 КБ; усі тести, названі тут без ⏳, існують у `check_build`; правила без тесту й тести з ⏳ друкуються числом у журнал збірки. | 36.31.4 | test:specyfikatsiia |
+| S-Н.11 | Цей файл ≤50 КБ (правила не стискати, щоб умістити); усі тести, названі тут без ⏳, існують у `check_build`; правила без тесту й тести з ⏳ друкуються числом у журнал збірки. | 36.31.4, 36.38.2 | test:specyfikatsiia |

diff --git a/ZVIT-39.md b/ZVIT-39.md
@@ -6,6 +6,50 @@ Code — «є відповідь». Нові записи — згори.
 
 ---
 
+## 22.10 (третя) — етап Г, перший коміт: 5 правок за VIDPOVID-39 (четверта)
+
+1. **«Місце, де подію оформлено»** — три речення в `step6_zvity.py` замінено на
+   «Адреси подій — з текстів рішень; текст суду не завжди точний». Інших у
+   `src/` і `*.md` немає (`map_excl.py` «місце оформлення протоколів» — про
+   установи, правильно).
+2. **Дорожні ділянки — 12/5 (36.36.3 → S-ПР.5).** Окремий поріг `DOR_POD,
+   DOR_KV` у воротах; воронка: 11 248 пар → **334 ділянки** (як до 36.36). Сито
+   кандидатів — прапорець `sito` 5/3 для всіх, разом з ДТП. Р4 у «Методиці
+   відбору» друкує поріг.
+3. **`mitky`** — поле в кожній ДТП `kandydaty.json.gz`, 10 виразів дослівно з
+   VIDPOVID. `check_build` 4ж падає, якщо в ДТП поля немає. Кандидатів 1 922
+   пари, 29 534 події, 3,0 МБ.
+4. **Знімки ПК 1366×768** перезняті після В.4 у `znimky-39/`:
+   `pl-vokzalna-1-kartka-adresy.png` (303 події, «Майнові · 50 з 303»; панель —
+   один «Дослідження ↗» і «Ризик»), `poshuk-pk-хрищ.png` (Хрещатик першим, 976).
+5. **Ст.184 КУпАП (36.38 → S-Д.2).** Коди 41256 і 6076 у `labels.py` були
+   підписані «ст.126-1 КК · домашнє насильство» (справжня 126-1 — 12591). Тепер
+   «поза видами» з підписом ст.184: на карту не йдуть **1 254 події**, у
+   розрахунки теж. **Проблем 79 → 68** — зникли рівно 11 «домашнє насильство»,
+   усі зі ст.184 (перевірено збіркою зі старим підписом): Спортивна, 1-А (19);
+   Лютеранська, 3 (13); Григоренка, 21-Б (12); Борщагівська, 152 (9); Хоткевича,
+   1-В (8); Європейського Союзу, 47 (7); Василенка, 10; С. Колоса, 50 (по 6);
+   Йорданська, 22-А; Оболонський, 1-Б і 2-Б (по 5). Решта переліку — без змін.
+
+**Специфікація — 50 КБ (36.38.2 → S-Н.11),** `check_build` — межа 50. Правила,
+які я стиснув у В (коміт e37d12c), — **повернув до повних формулювань**: межа
+дозволяє, а стиснення місцями загубило зміст. Що губилося (було → стало):
+- S-П.4 — «Позначка проходу v4d «процесуальна»» → прибрано;
+- S-А.5 — «в одному модулі», «(«вулиця Одеська площа»)» → прибрано;
+- S-А.6 — «однолітерний ініціал», «неоднозначна — без точки» → «ініціал»,
+  «інакше без точки»;
+- S-ПР.6 — «де посібника немає — «немає»» → прибрано;
+- S-ПР.10 — «одна проблема рівня «ділянка»» → «ділянка»;
+- S-ПР.11 — «не проблема» → прибрано;
+- S-Р.4 — «точці в 50 м з подіями до кінця навчального вікна» → «точці в 50 м»;
+- S-К.21 — «без вузької прокрутки» → прибрано;
+- S-З.1 — «навігація вгорі всіх сторінок» → «навігація вгорі»;
+- S-Б.4 — «Комерційний продукт до репозиторію не належить» → прибрано;
+- S-Н.4 — «немає коміту «прохід по текстах»» → «прохід не комітив».
+Тепер файл 41,4 КБ. S-ПР.4 у тому ж коміті — не стиснення, а 36.36.
+
+---
+
 ## 22.10 (друга) — етап В: звіт етапу (і 36.36, 36.37)
 
 Коміти: 1546be9 — описки в датах (v4e), 662b8e3 — В.1, e7d0d55 — В.2, e37d12c —

diff --git a/doslidzhennya/ZMINY-METODYKY.md b/doslidzhennya/ZMINY-METODYKY.md
@@ -7,6 +7,7 @@
 
 | Дата | Що змінилось (правило) | Проблем до → після | Ліній ризику |
 |---|---|---|---|
+| 22.10.2026 | Ст.184 КУпАП (невиконання батьками обов'язків) — стаття без місця, «поза видами» (36.38, S-Д.2): була підписана як ст.126-1 КК «домашнє насильство»; 1 254 події знято з карти. Дорожні ділянки — знову 12/5 (36.36.3, S-ПР.5) | 79 → 68 (зникли 11 «домашнє насильство» біля шкіл і на Спортивній, 1-А); дорожніх ділянок 334 | модель не перенавчали — 0 |
 | 22.10.2026 | Відбір проблем після змагання Е7 (36.36): Р3 — ≥5 подій за 8 кварталів у ≥3 різних (було ≥12 і ≥5); ст.51 КУпАП — проактивна, скупчення зі ст.51 більшістю — не «фіксує поліція». Зникло 50 (крадіжки в магазинах зі ст.51), прибуло 67 (залишення місця ДТП, хуліганство, домашнє, «фіксує поліція» — торгівля, куріння, розпивання) | 61 → 79 (ліній 8, ділянок 4, «фіксує поліція» 39) | не міняє |
 | 02.11.2026 (перенавчання) | Точки ризику за 36.21 (S-Р.3): хуліганство — лише середовище (R6), решта видів — історія 24 міс. зі згасанням (R1_24), як лінії; ціль перевірки — лише повні місяці виду (S-Р.9). Частка спільних точок з попередньою збіркою може впасти нижче 0,7 — жовта збірка очікувана, причина — зміна методики, не дані | не міняє | точки — нові; лінії — лише через повні місяці |
 | 21.10.2026 | Етап Б: гістерезис проблем (S-ПР.13); ціль перевірки ризику й «формується» — лише місяці з повнотою виду ≥90% (S-Р.9) | діє з наступної збірки | діє з перенавчання 02.11 |

diff --git a/RISHENNYA.md b/RISHENNYA.md
@@ -2403,6 +2403,22 @@ S-ПР.15 (нове), S-К.24 (нове), S-З.10 (нове).**
    до 600 знаків і мітками маневру ДТП, ≤20 МБ); ст.390-1 КК про програму для
    кривдників — адреса ролі (центр програми), не подія.
 
+**36.36.3. Дорожні ділянки — поріг 12/5 (VIDPOVID-39 від 22.10, четверта) →
+S-ПР.5.** Поріг 36.36 (5/3) потрапив і в Р4 — «1 422 ділянки доріг». Дорожні
+ділянки (ДТП з майном) лишаються з порогом ≥12 подій у ≥5 кварталах з 8, як до
+36.36; 5/3 — лише місця й лінії: Е7 міряло їх, а не ДТП. Сито кандидатів
+(36.37) — 5/3 для всіх, разом з ДТП. У кожної ДТП в `kandydaty.json.gz` — поле
+`mitky` (10 виразів із пілоту центрального чату) → S-ПР.15.
+
+**36.38. Ст.184 КУпАП — стаття без місця (VIDPOVID-39 від 22.10, четверта) →
+S-Д.2.** Коди 41256 і 6076 були підписані «ст.126-1 КК · домашнє насильство»
+(справжня 126-1 — код 12591), і на карті стояли «проблеми домашнього
+насильства» біля шкіл. Ст.184 — бездіяльність батьків; адреса — школа чи дім,
+де помітили. Тепер «поза видами»: не на карті, не в розрахунках, не «домашнє
+насильство».
+2. **→ S-Н.11:** межа SPECYFIKATSIYA — 50 КБ. Стискати правила, щоб умістити,
+   не треба: це ризик змінити зміст.
+
 ---
 
 ## Порядок
